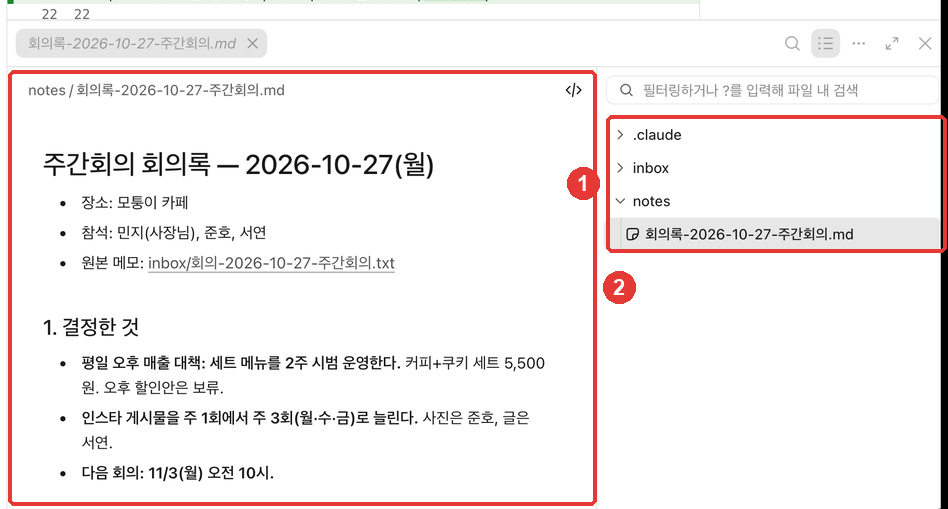
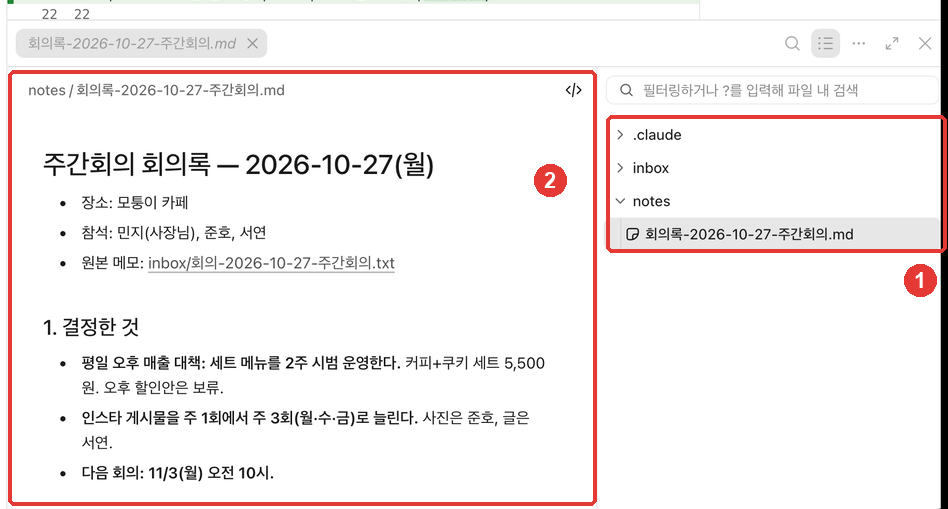
문서: Claude Code 1~4장 검토 반영
- 파일 칸 그림 번호를 상자 안으로 옮기고 중복 원본 정리
- 연습 메모의 날짜·요일이 지어낸 것임을 2장에 밝힘(2026년 달력과 다름)
- 4장: 모드 서열 문장 삭제, 자동 모드 설명을 원문 수준으로,
  위험 경로 삭제는 어느 모드도 자동 허락 안 함 추가, 한계 표현 완화
- 퀴즈 오답 길이 조정(정답이 가장 긴 보기 13/19 → 2/19)
- 용어 풀이(Node.js·apt·403), Windows 업데이트 메뉴, 인증 각주 추가
- 회고 메모의 「첫 게시물」을 고쳐 인스타 3회와 맞춤, 커리큘럼 문서 갱신

Claude-Session: https://claude.ai/code/session_01BpXZYHkksLp9vmjU8N2A1n

Changed region(s): [[0.5506, 0.3242, 0.6424, 0.4126], [0.9483, 0.501, 1.0, 0.5894], [0.6118, 0.5305, 0.673, 0.6189]]

diff --git a/.vitepress/theme/quiz-bank-claude-code.ts b/.vitepress/theme/quiz-bank-claude-code.ts
@@ -16,10 +16,10 @@ export const CLAUDE_CODE_QUESTIONS: readonly Question[] = [
     chapter: 401,
     prompt: '채팅으로 회의록 세 개를 정리할 때는 파일을 올리고, 받은 답을 새 파일에 붙여 넣었습니다. Claude Code로 같은 일을 하면 무엇이 달라질까요?',
     choices: [
-      '똑같이 파일을 올리고 답을 복사해야 한다',
+      '똑같이 파일을 하나씩 대화창에 올리고, 받은 답을 내가 새 파일에 직접 복사해 붙여 넣어야 한다',
       'Claude가 폴더의 파일을 직접 읽고 새 파일까지 만들어 두고, 나는 결과를 검토한다',
-      '파일은 읽지 못하고 질문에만 답한다',
-      '인터넷 검색만 해 준다',
+      '폴더의 파일은 읽지 못하고, 대화창에 붙여 넣은 글에만 답한다',
+      '인터넷에서 관련 자료를 검색해 요약한 답만 대화창에 보여 준다',
     ],
     answer: 1,
     explain: 'Claude Code는 내 컴퓨터의 폴더를 직접 읽고, 파일을 고치고, 명령을 실행하는 에이전트형 도구입니다. 나는 일을 맡기고 바뀐 내용을 검토합니다.',
@@ -29,10 +29,10 @@ export const CLAUDE_CODE_QUESTIONS: readonly Question[] = [
     chapter: 401,
     prompt: 'Claude Code가 폴더 안의 파일을 직접 고칠 수 있다면, 그만큼 꼭 함께 익혀야 하는 것은 무엇일까요?',
     choices: [
-      '더 빠르게 타자 치는 법',
-      '파일 이름을 영어로만 짓는 법',
+      '명령어를 더 빠르게 입력하는 타자 연습 방법',
+      '파일 이름을 모두 영어로만 짓는 규칙',
       '무엇을 허락할지 정하는 법과 바뀐 내용을 확인하는 법',
-      '컴퓨터를 자주 다시 켜는 법',
+      '컴퓨터를 자주 다시 켜서 작업 기록을 지우는 습관과 순서',
     ],
     answer: 2,
     explain: '파일을 직접 고치는 만큼 조심할 것도 늘어납니다. 그래서 무엇을 허락할지 정하고, 바뀐 내용을 검토하는 법을 이 단계에서 배웁니다.',
@@ -43,9 +43,9 @@ export const CLAUDE_CODE_QUESTIONS: readonly Question[] = [
     prompt: '터미널(명령어 창)은 써 본 적이 없지만 Claude Code를 써 보고 싶습니다. 이 가이드가 처음으로 권하는 곳은 어디일까요?',
     choices: [
       'Claude 데스크톱 앱의 Code 탭',
-      '터미널에 설치하는 CLI',
-      'JetBrains 플러그인',
-      '휴대폰 앱',
+      '터미널(명령어 창)에 설치하는 CLI',
+      '회사 개발자용 JetBrains 편집기 플러그인',
+      '휴대폰의 Claude 앱',
     ],
     answer: 0,
     explain: '데스크톱 앱은 같은 엔진을 그래픽 화면으로 제공하고, Claude Code가 들어 있어 따로 설치할 프로그램이 없습니다. 터미널은 10장에서 다룹니다.',
@@ -55,10 +55,10 @@ export const CLAUDE_CODE_QUESTIONS: readonly Question[] = [
     chapter: 401,
     prompt: '무료 Claude 계정으로 Claude Code를 쓰려고 합니다. 공식 문서 기준으로 맞는 설명은 무엇일까요?',
     choices: [
-      '무료 계정도 하루 몇 번은 쓸 수 있다',
-      '데스크톱 앱을 설치하면 무료로 쓸 수 있다',
-      '무료 계정은 터미널에서만 쓸 수 있다',
-      '무료 플랜으로는 쓸 수 없고 Pro·Max·Ultra·Team·Enterprise 같은 유료 구독이 필요하다',
+      '무료 계정도 하루에 몇 번까지는 쓸 수 있고, 더 쓰려면 구독한다',
+      '데스크톱 앱만 설치하면 무료 계정으로도 별다른 제한 없이 Code 탭을 모두 쓸 수 있다',
+      '무료 계정은 터미널에서만 쓸 수 있고 앱에서는 쓸 수 없다',
+      '쓸 수 없다. Pro·Max·Ultra·Team·Enterprise 구독이 필요하다',
     ],
     answer: 3,
     explain: 'Claude Code는 Pro·Max·Ultra·Team·Enterprise 구독이나 Console 계정이 필요하고, 무료 claude.ai 플랜에는 포함되지 않습니다.',
@@ -69,10 +69,10 @@ export const CLAUDE_CODE_QUESTIONS: readonly Question[] = [
     chapter: 402,
     prompt: 'Claude 데스크톱 앱으로 Claude Code를 쓰려고 합니다. 앱 말고 따로 설치해야 하는 것은 무엇일까요?',
     choices: [
-      'Node.js와 터미널용 Claude Code',
-      '코드 편집기(VS Code)',
+      'Node.js와 터미널용 Claude Code를 먼저 설치해야 한다',
+      '코드 편집기(VS Code)와 그 확장 프로그램',
       '없다 — 앱 안에 Claude Code가 들어 있다',
-      '웹 브라우저 확장 프로그램',
+      '웹 브라우저 확장 프로그램(Claude in Chrome)',
     ],
     answer: 2,
     explain: '데스크톱 앱에는 Claude Code가 들어 있어서 Node.js나 터미널용 Claude Code를 따로 설치하지 않아도 Code 탭을 쓸 수 있습니다.',
@@ -84,11 +84,11 @@ export const CLAUDE_CODE_QUESTIONS: readonly Question[] = [
     choices: [
       '앱 오른쪽 위의 설정 화면',
       '메뉴 막대의 도움말 메뉴',
-      '보낸 뒤에 뜨는 안내 창',
+      '요청을 보낸 뒤에 뜨는 안내 창',
       '입력창 아래 줄',
     ],
     answer: 3,
-    explain: '새 화면 배치에서는 입력창 아래 줄에서 환경(이 컴퓨터)·폴더·권한 모드·모델을 고릅니다. 예전 배치는 환경과 폴더가 입력창 위에 있습니다.',
+    explain: '새 화면 배치(입력창 아래에 환경이 보이는 화면)에서는 입력창 아래 줄에서 환경(이 컴퓨터)·폴더·권한 모드·모델을 고릅니다. 예전 배치는 환경과 폴더가 입력창 위에 있습니다.',
   },
   {
     id: 'ch402-folder',
@@ -96,9 +96,9 @@ export const CLAUDE_CODE_QUESTIONS: readonly Question[] = [
     prompt: '처음으로 Claude Code에 일을 맡겨 봅니다. 어떤 폴더를 고르는 것이 가장 안심될까요?',
     choices: [
       '이번 일에 필요한 파일만 넣은 작은 연습 폴더',
-      '내 문서 전체가 든 홈 폴더',
-      '사진과 동영상이 모두 든 폴더',
-      '어느 폴더든 상관없다',
+      '내 문서 전체가 들어 있는 홈 폴더 그대로',
+      '사진과 동영상, 업무 파일이 모두 섞여 있는 큰 폴더',
+      '어느 폴더든 상관없으니 가장 큰 폴더',
     ],
     answer: 0,
     explain: 'Claude는 고른 폴더 안에서 일합니다. 처음에는 망가져도 괜찮은 작은 연습 폴더를 고르면 손댈 수 있는 범위가 좁아 안심됩니다.',
@@ -108,10 +108,10 @@ export const CLAUDE_CODE_QUESTIONS: readonly Question[] = [
     chapter: 402,
     prompt: '권한 모드가 「수동」입니다. Claude가 회의록 파일을 만들려고 할 때 보통 어떻게 될까요?',
     choices: [
-      '아무것도 묻지 않고 바로 만든다',
+      '아무것도 묻지 않고 바로 파일을 만들어 저장한다',
       '무엇이 바뀔지 보여 주고 먼저 허락을 묻는다',
-      '파일을 만들 수 없다고 거절한다',
-      '앱을 다시 시작하라고 한다',
+      '파일은 만들 수 없다고 하고 거절한다',
+      '앱을 다시 시작하라는 안내만 띄운다',
     ],
     answer: 1,
     explain: '수동(Manual)에서는 파일을 고치거나 명령을 실행하기 전에 묻고, 바뀔 내용을 보여 줍니다. 다만 터미널에서 정해 둔 허용 규칙이 있으면 그 일은 묻지 않을 수 있습니다.',
@@ -121,10 +121,10 @@ export const CLAUDE_CODE_QUESTIONS: readonly Question[] = [
     chapter: 402,
     prompt: 'Claude가 회의록을 다 만들었다고 합니다. 가장 먼저 할 일은 무엇일까요?',
     choices: [
-      '그대로 팀에 보낸다',
-      '같은 요청을 한 번 더 보내 본다',
+      '내용은 따로 보지 않고 그대로 팀에 보낸다',
+      '같은 요청을 한 번 더 보내서 결과를 바꿔 본다',
       '원본 메모와 맞춰 담당·기한·숫자를 확인한다',
-      '회의록 파일 이름만 바꾼다',
+      '회의록 파일 이름만 알아보기 쉽게 바꾼다',
     ],
     answer: 2,
     explain: '"다 했다"는 말을 그대로 믿지 않고 원본과 맞춰 봅니다. 담당·기한·숫자가 맞는지, 메모에 없는 내용을 지어내지 않았는지 확인합니다.',
@@ -136,9 +136,9 @@ export const CLAUDE_CODE_QUESTIONS: readonly Question[] = [
     prompt: 'Code 탭에서 대화를 보면서 Claude가 고친 파일도 옆에 띄워 두고 싶습니다. 어떻게 할 수 있을까요?',
     choices: [
       '대화 칸 옆에 파일·바뀐 내용 같은 칸을 열어 원하는 대로 배치한다',
-      '앱을 하나 더 실행해 두 창을 나란히 둔다',
-      '대화를 복사해 메모장에 붙여 넣는다',
-      '한 번에 한 칸만 볼 수 있어서 방법이 없다',
+      'Claude 앱을 하나 더 실행해서 창 두 개를 화면에 나란히 둔다',
+      '대화 내용을 복사해서 메모장 프로그램에 붙여 넣는다',
+      '한 번에 한 칸만 볼 수 있어서 따로 방법이 없다',
     ],
     answer: 0,
     explain: 'Code 탭은 대화·바뀐 내용·파일·터미널·브라우저 같은 칸을 열어 원하는 배치로 쓰는 화면입니다. 칸 머리를 끌어 옮기고 가장자리를 끌어 크기를 바꿉니다.',
@@ -148,10 +148,10 @@ export const CLAUDE_CODE_QUESTIONS: readonly Question[] = [
     chapter: 403,
     prompt: '세션 제목 줄의 버튼이 아이콘뿐이라 무슨 버튼인지 모르겠습니다. 가장 쉬운 방법은 무엇일까요?',
     choices: [
-      '하나씩 눌러 보고 앱을 다시 시작한다',
+      '하나씩 눌러 보고 앱을 처음부터 다시 시작한다',
       '마우스를 버튼 위에 올려 이름을 확인한다',
-      '설정에서 버튼을 모두 끈다',
-      '세션을 지우고 새로 만든다',
+      '설정 화면에서 제목 줄 버튼을 모두 끈다',
+      '지금 세션을 지우고 새 세션을 만든다',
     ],
     answer: 1,
     explain: '제목 줄 버튼은 마우스를 올리면 이름(터미널·변경 사항·브라우저·파일 등)이 보입니다. 창이 좁으면 일부 버튼은 ⋯ 메뉴 안으로 들어갑니다.',
@@ -161,9 +161,9 @@ export const CLAUDE_CODE_QUESTIONS: readonly Question[] = [
     chapter: 403,
     prompt: '변경 사항 칸을 열었더니 「변경 사항을 보려면 Git 저장소가 필요합니다」라는 안내가 나옵니다. 무엇을 하면 될까요?',
     choices: [
-      '앱을 지우고 다시 설치한다',
-      '파일을 모두 새 폴더로 옮긴다',
-      '유료 요금제를 한 단계 올린다',
+      '앱을 완전히 지우고 처음부터 다시 설치한 뒤 같은 폴더를 다시 연다',
+      '파일을 모두 새 폴더로 옮기고 그 폴더로 새 세션을 연다',
+      '유료 요금제를 한 단계 위로 올려서 기능을 연다',
       'Claude에게 이 폴더에 변경 기록(Git)을 켜 달라고 한다',
     ],
     answer: 3,
@@ -172,7 +172,7 @@ export const CLAUDE_CODE_QUESTIONS: readonly Question[] = [
   {
     id: 'ch403-rail',
     chapter: 403,
-    prompt: '오래 이어 온 세션에서 Claude가 앞에서 한 지시를 잊은 것 같습니다. 세션 정보 칸에서 무엇을 보면 좋을까요?',
+    prompt: '이 세션에서 Claude가 한 번에 볼 수 있는 양을 얼마나 썼는지 알고 싶습니다. 세션 정보 칸에서 무엇을 볼까요?',
     choices: [
       '환경 카드의 폴더 이름',
       '결과물 카드의 파일 이름',
@@ -180,7 +180,7 @@ export const CLAUDE_CODE_QUESTIONS: readonly Question[] = [
       '변경 사항 카드의 커밋 버튼',
     ],
     answer: 2,
-    explain: '컨텍스트는 한 세션에서 Claude가 한 번에 기억할 수 있는 양입니다. 다 차면 대화를 자동으로 요약하고 이어 가므로, 앞의 세부 지시가 흐려질 수 있습니다.',
+    explain: '컨텍스트는 한 세션에서 Claude가 한 번에 기억할 수 있는 양입니다. 다 차면 Claude가 그동안의 대화를 자동으로 요약하고 이어서 일합니다.',
   },
   {
     id: 'ch403-files',
@@ -240,7 +240,7 @@ export const CLAUDE_CODE_QUESTIONS: readonly Question[] = [
     chapter: 404,
     prompt: '되감기(체크포인트)로 되돌릴 수 없는 것은 무엇일까요?',
     choices: [
-      '이 세션에서 Claude가 편집 도구로 만든 파일',
+      '이 세션에서 Claude가 편집 도구로 새로 만든 파일',
       '이 세션에서 Claude가 고친 파일의 내용',
       '바로 앞 요청 뒤에 이어진 대화',
       '내가 앱 밖에서 직접 고친 파일',
@@ -253,10 +253,10 @@ export const CLAUDE_CODE_QUESTIONS: readonly Question[] = [
     chapter: 404,
     prompt: 'Git 기록(커밋)으로 예전 상태로 되돌리려고 합니다. 되돌리기 전에 Claude에게 먼저 부탁하면 좋은 것은 무엇일까요?',
     choices: [
-      '폴더를 통째로 지워 달라고 한다',
+      '폴더를 통째로 지운 뒤 처음부터 새로 다시 만들어 달라고 한다',
       '마지막 커밋 뒤로 바뀐 파일이 무엇인지 먼저 보여 달라고 한다',
-      '권한 모드를 권한 무시로 바꿔 달라고 한다',
-      '아무것도 묻지 말고 바로 되돌려 달라고 한다',
+      '권한 모드를 권한 무시로 바꿔서 묻지 말고 해 달라고 한다',
+      '아무것도 보여 주지 말고 지금 바로 되돌려 달라고 한다',
     ],
     answer: 1,
     explain: '커밋 뒤에 한 일은 되돌리면 사라질 수 있습니다. 무엇이 사라지는지 먼저 보고 확인한 뒤 되돌리면 실수로 지울 일이 줄어듭니다.',

diff --git a/guide/20-claude-code/04-permissions-undo.md b/guide/20-claude-code/04-permissions-undo.md
@@ -7,21 +7,21 @@
 
 ## 권한 모드 고르기
 
-입력창 아래 줄 오른쪽의 모드 이름(처음엔 「수동」)을 누르면 권한 모드 메뉴가 열립니다. 단축키는 **Cmd+Shift+M** 입니다.[^keys]
+입력창 아래 줄 오른쪽의 모드 이름(이 가이드 화면에서는 「수동」)을 누르면 권한 모드 메뉴가 열립니다. 단축키는 **Cmd+Shift+M** 입니다.[^keys]
 
 ![권한 모드 메뉴. ① 자동, ② 수동(체크 표시), ③ 편집 자동 수락, ④ 계획, ⑤ 권한 무시(흐리게 「Claude Code 설정에서 활성화」), ⑥ 입력창 아래 줄의 모드 버튼에 빨간 번호가 붙어 있다](assets/shot-12-modes-marked.png)
 
 | 번호 | 화면 이름 | 공식 문서 이름 | Claude가 묻지 않고 하는 일 |
 |---|---|---|---|
-| ② | 수동 | Manual | 없음. 파일을 고치거나 명령을 실행하기 전에 매번 묻는다 |
+| ② | 수동 | Manual | 없음(고치거나 실행하기 전에 매번 물음) |
 | ③ | 편집 자동 수락 | Accept edits | 폴더 안 파일 만들기·고치기와 기본 파일 명령 |
-| ④ | 계획 | Plan | 읽고 살펴보기만. 파일은 고치지 않고 계획을 내놓는다 |
-| ① | 자동 | Auto | 대부분. 뒤에서 검사기가 위험한 일을 걸러 낸다 |
-| ⑤ | 권한 무시 | Bypass permissions | 거의 전부. 설정에서 켜야 나타난다 |
+| ④ | 계획 | Plan | 읽고 살펴보기만(파일은 고치지 않고 계획을 내놓음) |
+| ① | 자동 | Auto | 대부분(요청과 맞는지 검사기가 뒤에서 확인) |
+| ⑤ | 권한 무시 | Bypass permissions | 거의 전부(설정에서 켜야 나타남) |
 
 출처: 화면 이름은 이 가이드의 화면 확인(2026-10-31), 동작은 공식 문서[^modes]
 
-모드마다 **편리함과 내가 지켜보는 정도를 맞바꿉니다.**[^tradeoff] 위로 갈수록 내가 더 많이 보고, 아래로 갈수록 Claude가 더 많이 혼자 합니다.
+모드마다 **편리함과 내가 지켜보는 정도를 맞바꿉니다.**[^tradeoff]
 
 **처음에는 「수동」으로 시작하세요.** Claude가 무엇을 하려는지 하나씩 보면서 익숙해지는 편이 안심됩니다. 하는 일이 믿음직해지면 「편집 자동 수락」으로 넘어가도 됩니다. 일이 크면 「계획」으로 먼저 방법을 받아 보는 것이 좋습니다(5장).[^plan-tip]
 
@@ -32,7 +32,7 @@
 
 ## 「편집 자동 수락」「자동」「권한 무시」를 조심할 이유
 
-**편집 자동 수락**은 파일 고치기만이 아니라 **파일을 지우는 명령**(`rm`)까지 묻지 않고 실행합니다. 대신 작업 폴더 안에서만 그렇습니다.[^accept] 2장에서 "작은 연습 폴더를 고르라"고 한 이유가 여기 있습니다. 폴더가 작으면 실수가 퍼질 범위도 작습니다.
+**편집 자동 수락**은 파일 고치기만이 아니라 **파일을 지우는 명령**(`rm`)까지 묻지 않고 실행합니다. 대신 작업 폴더 안에서만 그렇습니다.[^accept] 2장에서 "작은 연습 폴더를 고르라"고 한 이유가 여기 있습니다. 폴더가 작으면 실수가 퍼질 범위도 작습니다. 다만 위험한 경로를 통째로 지우는 명령(예: `rm -rf ~`, 홈 폴더 전체 삭제)은 어느 모드에서도 자동으로 허락되지 않습니다.[^critical]
 
 **자동**은 묻는 일을 크게 줄여 주지만, 공식 문서는 이렇게 못 박습니다. 자동 모드는 허락 창을 줄여 줄 뿐 **안전을 보장하지 않습니다.**[^auto] 큰 방향을 믿을 수 있는 일에 쓰고, 민감한 일에서 검토를 대신하는 용도로 쓰지 마세요.[^auto]
 
@@ -95,8 +95,8 @@ inbox의 공부 필기를 공부 노트로 정리해 줘. 핵심 내용 / 모르
 
 되감기는 만능이 아닙니다. 확인 창의 ③ 문장이 그 한계를 알려 줍니다.
 
-- **명령(셸)으로 바꾼 파일**: Claude가 파일 편집 도구가 아니라 명령을 실행해서 바꾼 파일은 추적하지 않습니다.[^limits-bash]
-- **내가 직접 고친 파일, 다른 세션이 고친 파일**: 지금 세션에서 고친 파일만 추적합니다.[^limits-external]
+- **명령(셸)으로 바꾼 파일**: Claude가 파일 편집 도구가 아니라 명령을 실행해서만 바꾼 파일은 추적하지 않습니다.[^limits-bash]
+- **내가 직접 고친 파일, 다른 세션이 고친 파일**: 보통 추적하지 않습니다. 지금 세션에서 고친 파일만 추적합니다.[^limits-external]
 - **커밋**: Git 기록은 그대로 남습니다(확인 창 문구).
 - **오래된 체크포인트**: 체크포인트는 세션당 최근 100개까지 남고, 기본으로 약 30일 뒤 정리됩니다.[^retention]
 
@@ -125,8 +125,8 @@ inbox의 공부 필기를 공부 노트로 정리해 줘. 핵심 내용 / 모르
 | | 되감기(체크포인트) | Git 기록(커밋) |
 |---|---|---|
 | 언제 저장되나 | 요청을 보낼 때마다 자동 | 내가(또는 Claude가) 남길 때 |
-| 무엇을 되돌리나 | 이 세션에서 Claude가 편집한 파일과 대화 | 기록한 시점의 폴더 전체 |
-| 얼마나 남나 | 최근 100개, 약 30일 | 지울 때까지 |
+| 무엇을 되돌리나 | 이 세션에서 Claude가 편집한 파일과 대화 | 커밋해 둔 파일들 |
+| 얼마나 남나 | 최근 100개, 약 30일 | 기록을 지우기 전까지 |
 
 출처: 공식 문서[^checkpoint][^retention], Git 열은 이 가이드의 정리
 
@@ -135,7 +135,7 @@ inbox의 공부 필기를 공부 노트로 정리해 줘. 핵심 내용 / 모르
 ## 직접 해 보기
 
 1. 입력창 아래 줄의 모드 버튼을 눌러 권한 모드 메뉴를 열고, 다섯 모드의 설명을 읽어 본다. 지금은 「수동」으로 둔다.
-2. 공부 필기 정리 요청을 보내고, 만들어진 노트를 원본 필기와 맞춰 본다(요령 5가지, 모르는 말, 질문 1개, 해 볼 것 1개).
+2. 공부 필기 정리 요청을 보내고, 만들어진 노트를 원본 필기와 맞춰 본다(요령 5가지, 모르는 말, 질문 1개, 해 볼 것 1개). 이 가이드에서는 Claude가 회고 메모까지 읽고 "해 볼 것: 해 봄(10/30)"을 채웠습니다. 요청하지 않은 파일을 근거로 쓴 부분은 그 근거가 맞는지 따로 확인한다.
 3. `/rewind` 로 그 요청 전으로 되감는다. 확인 창의 `+0 −N` 숫자를 먼저 확인한다.
 4. 입력창에 돌아온 요청에서 형식 하나를 바꿔(예: "모르는 말 풀이는 표로") 다시 보낸다.
 5. 마음에 드는 결과가 나오면 「변경 사항 커밋」으로 기록을 남긴다.
@@ -147,7 +147,7 @@ inbox의 공부 필기를 공부 노트로 정리해 줘. 핵심 내용 / 모르
 - 권한 모드는 수동 · 편집 자동 수락 · 계획 · 자동 · 권한 무시가 있다. 처음엔 수동으로 시작한다.
 - 편집 자동 수락은 폴더 안 파일 삭제 명령까지 묻지 않는다. 자동은 안전을 보장하지 않는다. 권한 무시는 격리된 환경에서만 쓴다.
 - 요청마다 체크포인트가 저장된다. `/rewind` 로 코드와 대화·대화만·코드만 골라 되감는다.
-- 되감기는 명령으로 바꾼 파일, 내가 직접 고친 파일, 커밋은 되돌리지 않는다.
+- 되감기는 명령으로만 바꾼 파일, 내가 직접 고친 파일, 커밋은 보통 되돌리지 않는다.
 - 좋은 상태는 커밋으로 남겨 두 번째 안전망을 만든다. 되돌리기 전에 무엇이 사라지는지 먼저 확인한다.
 
 ## 용어 정리
@@ -180,3 +180,4 @@ inbox의 공부 필기를 공부 노트로 정리해 줘. 핵심 내용 / 모르
 [^limits-bash]: Claude Code 공식 문서, 「Checkpointing」. "A file that only Bash commands changed isn't tracked and stays as it is. To revert it, use version control, such as Git." https://code.claude.com/docs/en/checkpointing (확인일 2026-10-31)
 [^limits-external]: Claude Code 공식 문서, 「Checkpointing」. "Checkpointing only tracks files that have been edited within the current session. Manual changes you make to files outside of Claude Code and edits from other concurrent sessions are normally not captured" https://code.claude.com/docs/en/checkpointing (확인일 2026-10-31)
 [^retention]: Claude Code 공식 문서, 「Checkpointing」. "Claude Code keeps file snapshots for the 100 most recent checkpoints in a session." / "by default about 30 days after the session last saved one" https://code.claude.com/docs/en/checkpointing (확인일 2026-10-31)
+[^critical]: Claude Code 공식 문서, 「Choose a permission mode」. "Claude Code doesn't auto-approve the following in any mode, including bypassPermissions" / "Recognized rm and rmdir critical-path removals, which no allow rule or PreToolUse hook "allow" approves" https://code.claude.com/docs/en/permission-modes (확인일 2026-10-31)

diff --git a/guide/20-claude-code/02-install.md b/guide/20-claude-code/02-install.md
@@ -7,16 +7,16 @@
 
 ## 설치하고 로그인하기
 
-Claude Code는 **Claude 데스크톱 앱 안에 들어 있습니다.** 앱만 설치하면 되고, 다른 프로그램(Node.js나 터미널용 Claude Code)은 따로 설치하지 않아도 됩니다.[^quickstart]
+Claude Code는 **Claude 데스크톱 앱 안에 들어 있습니다.** 앱만 설치하면 되고, 다른 프로그램(개발용 실행 도구인 Node.js나 터미널용 Claude Code)은 따로 설치하지 않아도 됩니다.[^quickstart]
 
 1. 공식 문서의 설치 페이지에서 내 컴퓨터에 맞는 파일을 받습니다.[^quickstart]
    - **macOS**: 하나의 파일로 인텔·애플 실리콘 맥 모두에 설치됩니다.
    - **Windows**: 보통의 PC(x64)용 설치 파일이 있고, ARM64 PC용은 따로 있습니다.
-   - **Linux**: 베타(시험판)이며 Ubuntu·Debian에서 apt로 설치합니다.
+   - **Linux**: 베타(시험판)이며 Ubuntu·Debian에서 apt(리눅스의 프로그램 설치 도구)로 설치합니다.
 2. 받은 파일을 실행해 설치합니다.
-3. 앱을 열고 **Anthropic 계정**으로 로그인합니다.[^quickstart] claude.ai에서 쓰던 계정 그대로입니다.
+3. 앱을 열고 **Anthropic 계정**으로 로그인합니다.[^quickstart] 개인 구독(Pro·Max·Ultra)이라면 claude.ai에서 쓰던 계정으로 로그인합니다.[^auth]
 
-2단계에서 Claude 앱을 이미 설치했다면 이 단계는 건너뛰어도 됩니다. 앱이 오래됐다면 메뉴 막대의 **Claude → 업데이트 확인…** 으로 최신판을 받아 두세요.
+2단계에서 Claude 앱을 이미 설치했다면 이 단계는 건너뛰어도 됩니다. 앱이 오래됐다면 최신판을 받아 두세요. macOS는 메뉴 막대의 **Claude → 업데이트 확인…**, Windows는 **Help → Check for Updates…** 입니다.[^update]
 
 <Quiz id="ch402-install" />
 
@@ -28,7 +28,7 @@ Code를 눌렀을 때 안내가 뜨면 이렇게 합니다.[^quickstart]
 
 - **유료 요금제로 바꾸라는 안내**: Claude Code는 유료 구독이 있어야 씁니다([1장](01-what-is.md#무엇이-필요한가-—-요금제)). 구독한 뒤 다시 엽니다.
 - **온라인으로 로그인하라는 안내**: 로그인을 마치고 앱을 다시 시작합니다.
-- **403 오류**: 공식 문서의 인증 문제 해결 안내를 봅니다.
+- **403 오류**(접근이 거부됐다는 오류): 공식 문서의 인증 문제 해결 안내를 봅니다.
 
 Code 탭에서 새 세션을 열면 이런 화면이 나옵니다.
 
@@ -38,6 +38,8 @@ Code 탭에서 새 세션을 열면 이런 화면이 나옵니다.
 
 | 번호 | 화면 이름 | 하는 일 |
 |---|---|---|
+| ① | 시작 안내 카드 | 새 세션에서만 보임. 지금은 쓰지 않아도 됨 |
+| ② | 입력창 | 할 일을 적어 보내는 곳 |
 | ③ | 이 컴퓨터 | 어디서 일할지(환경). 내 컴퓨터에서 하려면 그대로 둠 |
 | ④ | 선택… | 어느 폴더에서 일할지 |
 | ⑤ | Opus 5.5 · 중간 | 어떤 모델이, 얼마나 깊이 생각할지 |
@@ -67,11 +69,13 @@ Claude Code는 **내가 고른 폴더 안에서** 일합니다. 그래서 처음
 | [공부-2026-10-28-프롬프트-강의.txt](/practice/notes/inbox/공부-2026-10-28-프롬프트-강의.txt) | 강의 들으며 적은 필기 |
 | [회고-2026-10-29.txt](/practice/notes/inbox/회고-2026-10-29.txt) · [10-30](/practice/notes/inbox/회고-2026-10-30.txt) · [10-31](/practice/notes/inbox/회고-2026-10-31.txt) | 하루 회고 3일치 |
 
+메모의 날짜와 요일은 이야기를 위해 지어낸 것이라 **실제 2026년 달력과 맞지 않습니다.** 결과를 확인할 때는 **메모에 적힌** 날짜·요일과 맞는지 보세요.
+
 1. 내 컴퓨터에 새 폴더 **정리도구** 를 만들고, 그 안에 **inbox** 폴더를 만듭니다.
 2. 위 파일 5개를 내려받아 **inbox** 에 넣습니다.
 3. Code 탭 입력창 아래 줄의 **선택…**(④)을 누릅니다.
 
-![폴더 메뉴. ① 폴더 「선택…」, ② 「폴더 검색…」 칸(그림은 처음 여는 폴더 이름을 넣어 「일치하는 항목 없음」이 나온 모습), ③ 「폴더 열기…」에 빨간 번호가 붙어 있다](assets/shot-02-folder-menu-marked.png)
+![폴더 메뉴. ① 폴더 「선택…」, ② 「폴더 검색…」 칸(그림은 아직 연 적 없는 다른 연습 폴더 이름을 넣어 「일치하는 항목 없음」이 나온 모습), ③ 「폴더 열기…」에 빨간 번호가 붙어 있다](assets/shot-02-folder-menu-marked.png)
 
 4. 메뉴가 열리면 맨 아래 **폴더 열기…**(③)를 누릅니다. 공식 문서의 「Open folder…」가 이 항목입니다.[^quickstart]
 5. 파일 고르는 창에서 **정리도구** 폴더를 고르고 **열기**를 누릅니다.
@@ -183,3 +187,5 @@ inbox 폴더의 회의 메모를 읽고 회의록으로 정리해 줘. 결정한
 [^desktop-start]: Claude Code 공식 문서, 「Desktop application」. "Before you send your first message, choose the environment, project folder, permission mode, and model in the row under the prompt box" / "Type what you want Claude to do and press Enter to send. Claude reads your project files, makes changes, and runs commands based on your permission mode." / "click the stop button to interrupt immediately, or type a correction and press Enter to send it without stopping the running action." https://code.claude.com/docs/en/desktop (확인일 2026-10-31)
 [^desktop-layout]: Claude Code 공식 문서, 「Desktop application」. "In the earlier layout, choose the environment and any project folder or repository above the prompt box, and the permission mode and model in the row under it." https://code.claude.com/docs/en/desktop (확인일 2026-10-31)
 [^desktop-modes]: Claude Code 공식 문서, 「Desktop application」. "Claude asks before editing files or running commands. You see a diff and can accept or reject each change." / "The desktop app reads the same settings files as the CLI." https://code.claude.com/docs/en/desktop (확인일 2026-10-31)
+[^auth]: Claude Code 공식 문서, 「Authentication」. "Claude Pro, Max, or Ultra subscription: log in with your claude.ai account." https://code.claude.com/docs/en/authentication (확인일 2026-10-31)
+[^update]: Claude Code 공식 문서, 「Desktop application」. "Open Claude > Check for Updates… on macOS or Help > Check for Updates… on Windows to update." https://code.claude.com/docs/en/desktop (확인일 2026-10-31)

diff --git a/docs/plans/2026-10-31_Claude-Code-실습-커리큘럼.md b/docs/plans/2026-10-31_Claude-Code-실습-커리큘럼.md
@@ -31,9 +31,9 @@ tags: [계획, 커리큘럼, 3단계, Claude-Code, 실습, 자동화]
 | 장 | 배우는 기능 | 실습 | 결과물 | 확인 질문 |
 |---|---|---|---|---|
 | 1 | Claude Code가 무엇인가 | 없음(개념) | — | 채팅과 무엇이 다른가? |
-| 2 | 설치·Code 탭·폴더·첫 일 | 회의 메모 하나를 결정·할 일·다음 논의로 정리 | `notes/회의록-2026-10-27.md` | 할 일마다 담당·기한이 있나? 메모와 맞나? |
-| 3 | 화면 둘러보기 | 만든 파일 열어 보기, 바뀐 내용 표시(`+N -N`) 눌러 보기 | (2장 결과 확인) | 어느 파일이 새로 생겼는지 찾을 수 있나? |
-| 4 | 권한 모드·되돌리기 | 「수동」에서 공부 필기 정리를 하나씩 허락 → 원본을 고치려 하면 거절 → 마음에 안 드는 변경 되돌리기 | `notes/공부-프롬프트-강의.md` | 원본 메모는 그대로인가? |
+| 2 | 설치·Code 탭·폴더·첫 일 | 회의 메모 하나를 결정·할 일·다음 논의로 정리 | `notes/회의록-2026-10-27-주간회의.md` | 할 일마다 담당·기한이 있나? 메모와 맞나? |
+| 3 | 화면 둘러보기 | 변경 사항 칸이 Git을 요구 → Claude에게 Git 켜 달라기 → 할 일 표에 상태 칸 추가 → `+7 −7` 확인 | 회의록(상태 칸) | 표 말고 다른 줄이 바뀌지 않았나? |
+| 4 | 권한 모드·되돌리기 | 권한 메뉴 보기 → 공부 필기 정리 → `/rewind` 로 되감기 → 커밋을 두 번째 안전망으로 | 공부 노트(되감기 전 저장) | 되감기 전에 `+0 −N` 을 확인했나? |
 | 5 | 잘 맡기는 법(계획 먼저) | 「계획」 모드로 "회의·공부·회고 양식 3종" 설계를 먼저 받고 고친 뒤 만들기 | `templates/회의록.md` 등 3개 | 양식에 내가 원한 칸이 다 있나? |
 | 6 | 프로젝트 기억(CLAUDE.md) | "원본은 고치지 않는다, 날짜는 10월 27일(월) 형식, 할 일은 표로" 같은 내 규칙 저장 → 다시 정리시켜 지켜지는지 보기 | `CLAUDE.md` | 규칙을 말하지 않아도 지켰나? |
 | 7 | 스킬 | `/회의정리` `/공부정리` `/주간회고` 스킬 만들기 — **도구 완성** | 스킬 3개, `notes/주간회고-2026-W44.md` | 한 줄로 불러도 같은 형식이 나오나? |
@@ -58,6 +58,11 @@ tags: [계획, 커리큘럼, 3단계, Claude-Code, 실습, 자동화]
 | model picker | 「Opus 5.5」, 그 옆에 노력 수준 「중간」 |
 | permission mode (Manual) | 「수동」 — 이 계정의 시작 값. 모든 계정의 기본값인지는 미확인 |
 | 첫 화면 안내 카드 | 「환경 선택」, 「Claude Code CLI 세션 가져오기」, 「자동 모드 켜기」, 「작업할 폴더 선택」 |
+
+## 4-1. 진행 기록 (2026-10-31)
+
+- 2~4장 실제 진행 결과로 위 표를 고쳤다. 허락 창은 이 맥의 개인 설정(`~/.claude`)이 앱에도 적용돼 찍지 못했다 — 사용자 결정으로 공식 문서 설명으로 대신한다.
+- 연습 메모의 요일은 2025년 달력 기준이라 2026년 실제 요일과 다르다(검토에서 발견). 다시 만들지 않고 2장 연습 재료 표 아래에 "지어낸 날짜"라고 밝혔다.
 
 ## 5. 위험과 대응
 

diff --git a/guide/20-claude-code/03-screen-tour.md b/guide/20-claude-code/03-screen-tour.md
@@ -77,7 +77,7 @@ Git 명령을 몰라도 됩니다. **Claude에게 켜 달라고 하면 됩니다
 이 칸 덕분에 **"다른 부분은 고치지 마"를 지켰는지 눈으로 확인**할 수 있습니다. 표 말고 다른 줄이 빨강·초록으로 나오지 않았으면 지킨 것입니다.
 
 ::: tip Claude가 스스로 판단한 부분을 확인하세요
-이 가이드의 실습에서 Claude는 "회고에 준호의 사진 촬영이 따로 적혀 있지 않지만 게시물이 3번 다 올라갔으니 '진행 중'으로 적었다. 엄격하게 하려면 '확인 필요'로 바꾸면 된다"고 먼저 밝혔습니다. 이런 설명이 보이면 그 판단이 내 기준에 맞는지 한 번 더 봅니다. 기준과 다르면 한 줄로 고쳐 달라고 하면 됩니다.
+이 가이드의 실습에서 Claude는 판단 하나를 먼저 밝혔습니다. 회고에 준호의 사진 촬영은 따로 적혀 있지 않지만, 게시물이 3번 다 올라갔으니 '진행 중'으로 적었다는 것입니다. 엄격하게 하려면 '확인 필요'로 바꾸면 된다는 말도 덧붙였습니다. 이런 설명이 보이면 그 판단이 내 기준에 맞는지 한 번 더 봅니다. 기준과 다르면 한 줄로 고쳐 달라고 하면 됩니다.
 :::
 
 ::: warning Git 기록에 남는 이름
@@ -103,7 +103,7 @@ Git은 기록마다 **이 컴퓨터의 Git 설정에 적힌 이름과 이메일*
 
 출처: 카드 이름은 이 가이드의 화면 확인(2026-10-31), 역할은 공식 문서[^rail][^diff]
 
-**컨텍스트**(Context)는 1단계에서 배운 "AI가 한 번에 볼 수 있는 양"입니다([1단계 1장](../00-common/01-what-is-llm.md#_3-한-번에-볼-수-있는-양에-한계가-있다-—-컨텍스트-윈도우)). 다 차면 Claude가 그동안의 대화를 **자동으로 요약하고 이어서 일합니다.**[^context] 오래 이어 온 세션이 앞의 지시를 잊은 것 같으면 이 숫자를 보세요. 새 일은 새 세션에서 시작하는 편이 깔끔합니다.
+**컨텍스트**(Context)는 1단계에서 배운 "AI가 한 번에 볼 수 있는 양"입니다([1단계 1장](../00-common/01-what-is-llm.md#_3-한-번에-볼-수-있는-양에-한계가-있다-—-컨텍스트-윈도우)). 다 차면 Claude가 그동안의 대화를 **자동으로 요약하고 이어서 일합니다.**[^context] 이 가이드는 이렇게 권합니다. 숫자가 많이 올라간 세션에 새 일을 이어 붙이기보다, 새 일은 새 세션에서 시작하는 편이 깔끔합니다.
 
 ④의 「변경 사항 커밋」은 바뀐 내용을 Git에 새 기록으로 남기는 버튼입니다. 기록과 되돌리기는 [4장](04-permissions-undo.md)에서 다룹니다.
 
